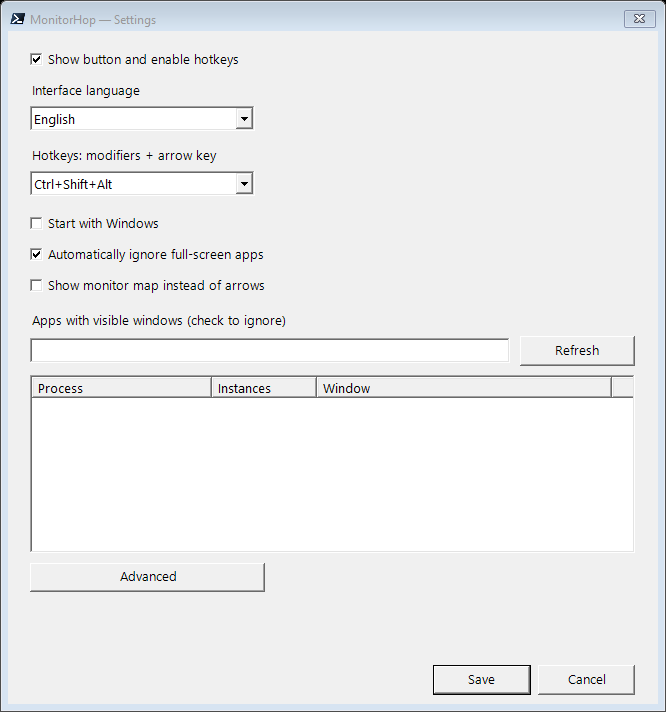
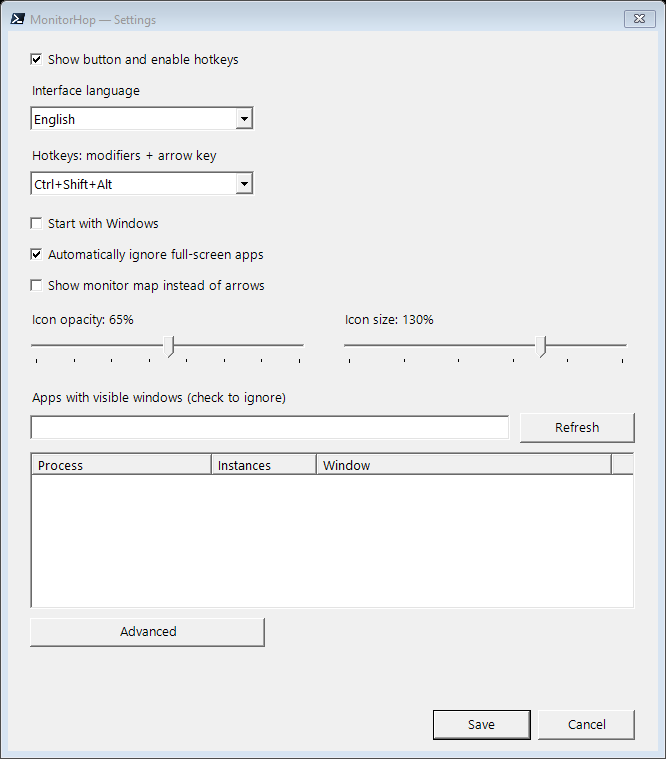
Add release update prompt and overlay appearance controls

diff --git a/MonitorHop/SettingsForm.cs b/MonitorHop/SettingsForm.cs
@@ -10,6 +10,10 @@ internal sealed class SettingsForm : Form
     private readonly ComboBox _modifiers;
     private readonly Label _languageLabel;
     private readonly Label _hotkeyLabel;
+    private readonly Label _opacityLabel;
+    private readonly Label _sizeLabel;
+    private readonly TrackBar _opacity;
+    private readonly TrackBar _size;
     private readonly Label _processLabel;
     private readonly TextBox _search;
     private readonly Button _refresh;
@@ -37,7 +41,7 @@ internal sealed class SettingsForm : Form
         FormBorderStyle = FormBorderStyle.FixedDialog;
         MaximizeBox = false;
         MinimizeBox = false;
-        ClientSize = new Size(650, 673);
+        ClientSize = new Size(650, 720);
         Font = new Font("Segoe UI", 10);
         Icon = Branding.AppIcon;
 
@@ -58,12 +62,20 @@ internal sealed class SettingsForm : Form
         _startup = new CheckBox { Left = 22, Top = 180, Width = 600, Height = 26, Checked = settings.StartWithWindows };
         _fullscreen = new CheckBox { Left = 22, Top = 211, Width = 600, Height = 26, Checked = settings.IgnoreFullscreen };
         _monitorMap = new CheckBox { Left = 22, Top = 242, Width = 600, Height = 26, Checked = settings.ShowMonitorMap };
-        _processLabel = new Label { Left = 22, Top = 280, Width = 600, Height = 23 };
-        _search = new TextBox { Left = 22, Top = 307, Width = 480, Height = 28 };
-        _refresh = new Button { Left = 512, Top = 305, Width = 115, Height = 30 };
+        _opacityLabel = new Label { Left = 22, Top = 279, Width = 280, Height = 23 };
+        _sizeLabel = new Label { Left = 335, Top = 279, Width = 290, Height = 23 };
+        _opacity = new TrackBar { Left = 15, Top = 303, Width = 290, Height = 45,
+            Minimum = 30, Maximum = 100, TickFrequency = 10,
+            Value = Math.Clamp(settings.IconOpacityPercent, 30, 100) };
+        _size = new TrackBar { Left = 328, Top = 303, Width = 300, Height = 45,
+            Minimum = 60, Maximum = 160, TickFrequency = 20,
+            Value = Math.Clamp(settings.IconSizePercent, 60, 160) };
+        _processLabel = new Label { Left = 22, Top = 357, Width = 600, Height = 23 };
+        _search = new TextBox { Left = 22, Top = 384, Width = 480, Height = 28 };
+        _refresh = new Button { Left = 512, Top = 382, Width = 115, Height = 30 };
         _processes = new ListView
         {
-            Left = 22, Top = 344, Width = 605, Height = 178,
+            Left = 22, Top = 421, Width = 605, Height = 157,
             View = View.Details, CheckBoxes = true, FullRowSelect = true,
             HideSelection = false, MultiSelect = false
         };
@@ -71,30 +83,33 @@ internal sealed class SettingsForm : Form
         _processes.Columns.Add("", 105);
         _processes.Columns.Add("", 295);
 
-        _advancedToggle = new Button { Left = 22, Top = 532, Width = 235, Height = 29 };
+        _advancedToggle = new Button { Left = 22, Top = 587, Width = 235, Height = 29 };
         _advanced = new TextBox
         {
-            Left = 22, Top = 568, Width = 476, Height = 59,
+            Left = 22, Top = 623, Width = 476, Height = 59,
             Multiline = true, ScrollBars = ScrollBars.Vertical,
             Visible = false
         };
-        _addNames = new Button { Left = 506, Top = 568, Width = 121, Height = 30, Visible = false };
+        _addNames = new Button { Left = 506, Top = 623, Width = 121, Height = 30, Visible = false };
         _hint = new Label
         {
-            Left = 22, Top = 631, Width = 390, Height = 18,
+            Left = 22, Top = 686, Width = 390, Height = 18,
             ForeColor = SystemColors.GrayText,
             Font = new Font("Segoe UI", 8.5f), Visible = false
         };
-        _save = new Button { Left = 425, Top = 634, Width = 98, Height = 30, DialogResult = DialogResult.OK };
-        _cancel = new Button { Left = 530, Top = 634, Width = 97, Height = 30, DialogResult = DialogResult.Cancel };
+        _save = new Button { Left = 425, Top = 679, Width = 98, Height = 30, DialogResult = DialogResult.OK };
+        _cancel = new Button { Left = 530, Top = 679, Width = 97, Height = 30, DialogResult = DialogResult.Cancel };
 
         Controls.AddRange([_enabled, _languageLabel, _language, _hotkeyLabel, _modifiers,
-            _startup, _fullscreen, _monitorMap, _processLabel, _search, _refresh, _processes,
+            _startup, _fullscreen, _monitorMap, _opacityLabel, _sizeLabel, _opacity, _size,
+            _processLabel, _search, _refresh, _processes,
             _advancedToggle, _advanced, _addNames, _hint, _save, _cancel]);
         AcceptButton = _save;
         CancelButton = _cancel;
 
         _language.SelectedIndexChanged += (_, _) => ApplyLanguage();
+        _opacity.ValueChanged += (_, _) => ApplyAppearanceLabels();
+        _size.ValueChanged += (_, _) => ApplyAppearanceLabels();
         _language.SelectedItem = _language.Items.Cast<LanguageOption>()
             .First(option => option.Code == Texts.NormalizeLanguage(settings.Language));
         _search.TextChanged += (_, _) => PopulateProcessList();
@@ -126,6 +141,8 @@ internal sealed class SettingsForm : Form
                 StartWithWindows = _startup.Checked,
                 IgnoreFullscreen = _fullscreen.Checked,
                 ShowMonitorMap = _monitorMap.Checked,
+                IconOpacityPercent = _opacity.Value,
+                IconSizePercent = _size.Value,
                 OverlayOffsetX = Result.OverlayOffsetX,
                 OverlayOffsetY = Result.OverlayOffsetY,
                 Language = ((LanguageOption)_language.SelectedItem!).Code,
@@ -150,6 +167,7 @@ internal sealed class SettingsForm : Form
         _startup.Text = T("StartupSetting");
         _fullscreen.Text = T("FullscreenSetting");
         _monitorMap.Text = T("MonitorMapSetting");
+        ApplyAppearanceLabels();
         _processLabel.Text = T("ProcessList");
         _search.PlaceholderText = T("SearchProcesses");
         _refresh.Text = T("Refresh");
@@ -161,6 +179,13 @@ internal sealed class SettingsForm : Form
         _hint.Text = T("IgnoredHint");
         _save.Text = T("Save");
         _cancel.Text = T("Cancel");
+    }
+
+    private void ApplyAppearanceLabels()
+    {
+        if (_language.SelectedItem is not LanguageOption language) return;
+        _opacityLabel.Text = $"{Texts.Get(language.Code, "IconOpacitySetting")}: {_opacity.Value}%";
+        _sizeLabel.Text = $"{Texts.Get(language.Code, "IconSizeSetting")}: {_size.Value}%";
     }
 
     private void RefreshProcesses()

diff --git a/MonitorHop/OverlayForm.cs b/MonitorHop/OverlayForm.cs
@@ -27,6 +27,8 @@ internal sealed class OverlayForm : Form
     private Screen? _source;
     private string _language = "ru";
     private bool _showMonitorMap;
+    private int _iconOpacityPercent = 78;
+    private int _iconSizePercent = 100;
     private string _monitorLayout = "";
 
     public event Action<Direction>? DirectionChosen;
@@ -92,6 +94,24 @@ internal sealed class OverlayForm : Form
         Position();
     }
 
+    public void SetAppearance(int opacityPercent, int sizePercent)
+    {
+        int opacity = Math.Clamp(opacityPercent, 30, 100);
+        int size = Math.Clamp(sizePercent, 60, 160);
+        if (_iconOpacityPercent == opacity && _iconSizePercent == size) return;
+        _iconOpacityPercent = opacity;
+        _iconSizePercent = size;
+        if (_expanded) return;
+        Opacity = _iconOpacityPercent / 100.0;
+        ClientSize = ClosedSize;
+        Position();
+        Invalidate();
+    }
+
+    private Size ClosedSize => new(
+        (int)Math.Round(ClosedWidth * _iconSizePercent / 100.0),
+        (int)Math.Round(ClosedHeight * _iconSizePercent / 100.0));
+
     public void Attach(Rectangle window, Screen source, IntPtr hwnd)
     {
         string layout = string.Join("|", Screen.AllScreens.Select(screen =>
@@ -116,8 +136,8 @@ internal sealed class OverlayForm : Form
         if (Visible) Hide();
         _expanded = false;
         _hovered = -1;
-        Opacity = 0.78;
-        ClientSize = new Size(ClosedWidth, ClosedHeight);
+        Opacity = _iconOpacityPercent / 100.0;
+        ClientSize = ClosedSize;
         _anchor = Rectangle.Empty;
         _window = IntPtr.Zero;
         _source = null;
@@ -234,7 +254,11 @@ internal sealed class OverlayForm : Form
 
         if (!_expanded)
         {
-            graphics.DrawImage(Branding.Image, new Rectangle(7, 3, 44, 42));
+            graphics.DrawImage(Branding.Image, new Rectangle(
+                (int)Math.Round(7 * _iconSizePercent / 100.0),
+                (int)Math.Round(3 * _iconSizePercent / 100.0),
+                (int)Math.Round(44 * _iconSizePercent / 100.0),
+                (int)Math.Round(42 * _iconSizePercent / 100.0)));
             return;
         }
 
@@ -385,8 +409,8 @@ internal sealed class OverlayForm : Form
         if (!_expanded) return;
         _expanded = false;
         _hovered = -1;
-        Opacity = 0.78;
-        ClientSize = new Size(ClosedWidth, ClosedHeight);
+        Opacity = _iconOpacityPercent / 100.0;
+        ClientSize = ClosedSize;
         Position();
         Invalidate();
     }
@@ -398,7 +422,7 @@ internal sealed class OverlayForm : Form
         uint dpi = Native.GetDpiForWindow(_window);
         double scale = dpi > 0 ? dpi / 96.0 : 1;
         int captionSpace = (int)Math.Round(3 * 46 * scale + 12 * scale);
-        int collapsedRight = Math.Max(_anchor.Left + ClosedWidth + 8, _anchor.Right - captionSpace);
+        int collapsedRight = Math.Max(_anchor.Left + ClosedSize.Width + 8, _anchor.Right - captionSpace);
         int x = collapsedRight - Width + (int)Math.Round(_offset.X * scale);
         x = Math.Clamp(x, work.Left, Math.Max(work.Left, work.Right - Width));
         int y = Math.Clamp(_anchor.Top + 3 + (int)Math.Round(_offset.Y * scale),

diff --git a/MonitorHop/TrayContext.cs b/MonitorHop/TrayContext.cs
@@ -18,6 +18,8 @@ internal sealed class TrayContext : ApplicationContext
     private string _cachedProcessName = "";
     private SettingsForm? _settingsDialog;
     private AppSettings _settings;
+    private bool _updateCheckStarted;
+    private bool _closing;
 
     public TrayContext()
     {
@@ -68,8 +70,11 @@ internal sealed class TrayContext : ApplicationContext
         _timer = new System.Windows.Forms.Timer { Interval = 500 };
         _timer.Tick += (_, _) =>
         {
-            if (_exitRequest.WaitOne(0)) ExitThread();
-            else RefreshOverlay();
+            if (_exitRequest.WaitOne(0)) { ExitThread(); return; }
+            RefreshOverlay();
+            if (_updateCheckStarted) return;
+            _updateCheckStarted = true;
+            _ = CheckForUpdatesAsync();
         };
         _timer.Start();
         ApplySettings();
@@ -239,6 +244,7 @@ internal sealed class TrayContext : ApplicationContext
         _exitItem.Text = T("Exit");
         _overlay.SetLanguage(_settings.Language);
         _overlay.SetDisplayMode(_settings.ShowMonitorMap);
+        _overlay.SetAppearance(_settings.IconOpacityPercent, _settings.IconSizePercent);
         _overlay.SetPositionOffset(_settings.OverlayOffsetX, _settings.OverlayOffsetY);
         _hotkeyWindow.Configure(_settings.Enabled ? _settings.HotkeyModifiers : null);
         if (_settings.Enabled && !_hotkeyWindow.Registered)
@@ -249,6 +255,7 @@ internal sealed class TrayContext : ApplicationContext
 
     protected override void ExitThreadCore()
     {
+        _closing = true;
         _timer.Stop();
         _timer.Dispose();
         _hotkeyWindow.Dispose();
@@ -257,6 +264,31 @@ internal sealed class TrayContext : ApplicationContext
         _tray.Visible = false;
         _tray.Dispose();
         base.ExitThreadCore();
+    }
+
+    private async Task CheckForUpdatesAsync()
+    {
+        ReleaseInfo? release;
+        try { release = await UpdateChecker.GetNewerReleaseAsync(CancellationToken.None); }
+        catch (HttpRequestException) { return; }
+        catch (TaskCanceledException) { return; }
+        catch (IOException) { return; }
+        catch (System.Text.Json.JsonException) { return; }
+        if (_closing || release is null) return;
+
+        string message = string.Format(T("UpdatePrompt"), UpdateChecker.InstalledVersion, release.Version);
+        if (MessageBox.Show(message, T("UpdateTitle"), MessageBoxButtons.YesNo,
+                MessageBoxIcon.Information) != DialogResult.Yes)
+            return;
+        try
+        {
+            Process.Start(new ProcessStartInfo(release.Page.AbsoluteUri) { UseShellExecute = true });
+        }
+        catch (System.ComponentModel.Win32Exception)
+        {
+            MessageBox.Show(T("UpdateOpenFailed"), T("UpdateTitle"),
+                MessageBoxButtons.OK, MessageBoxIcon.Warning);
+        }
     }
 
     private sealed class HotkeyWindow : NativeWindow, IDisposable

diff --git a/MonitorHop/UpdateChecker.cs b/MonitorHop/UpdateChecker.cs
@@ -1,0 +1,56 @@
+using System.Net.Http.Headers;
+using System.Text.Json;
+
+namespace MonitorHop;
+
+internal static class UpdateChecker
+{
+    private const string LatestReleaseApi =
+        "https://api.github.com/repos/danilyu4ka/MonitorHop/releases/latest";
+    private const string ReleaseBase =
+        "https://github.com/danilyu4ka/MonitorHop/releases/tag/";
+    private static readonly HttpClient Client = new() { Timeout = TimeSpan.FromSeconds(8) };
+
+    public static Version InstalledVersion => Normalize(
+        typeof(UpdateChecker).Assembly.GetName().Version ?? new Version(0, 0));
+
+    public static async Task<ReleaseInfo?> GetNewerReleaseAsync(CancellationToken cancellationToken)
+    {
+        using var request = new HttpRequestMessage(HttpMethod.Get, LatestReleaseApi);
+        request.Headers.UserAgent.ParseAdd($"MonitorHop/{InstalledVersion}");
+        request.Headers.Accept.Add(new MediaTypeWithQualityHeaderValue("application/vnd.github+json"));
+        using var response = await Client.SendAsync(request,
+            HttpCompletionOption.ResponseHeadersRead, cancellationToken);
+        if (!response.IsSuccessStatusCode) return null;
+
+        await using var stream = await response.Content.ReadAsStreamAsync(cancellationToken);
+        using var document = await JsonDocument.ParseAsync(stream, cancellationToken: cancellationToken);
+        if (document.RootElement.ValueKind != JsonValueKind.Object ||
+            !document.RootElement.TryGetProperty("tag_name", out var tagElement) ||
+            tagElement.ValueKind != JsonValueKind.String)
+            return null;
+
+        string? tag = tagElement.GetString();
+        if (!TryParseTag(tag, out var version) || version <= InstalledVersion) return null;
+        return new ReleaseInfo(version, new Uri(ReleaseBase + tag));
+    }
+
+    internal static bool TryParseTag(string? tag, out Version version)
+    {
+        version = new Version(0, 0, 0, 0);
+        if (string.IsNullOrEmpty(tag)) return false;
+        string numeric = tag.StartsWith('v') || tag.StartsWith('V') ? tag[1..] : tag;
+        string[] parts = numeric.Split('.');
+        if (parts.Length is < 2 or > 4 ||
+            parts.Any(part => part.Length is < 1 or > 9 || !part.All(char.IsAsciiDigit)) ||
+            !Version.TryParse(numeric, out var parsed))
+            return false;
+        version = Normalize(parsed);
+        return true;
+    }
+
+    private static Version Normalize(Version version) =>
+        new(version.Major, version.Minor, Math.Max(0, version.Build), Math.Max(0, version.Revision));
+}
+
+internal sealed record ReleaseInfo(Version Version, Uri Page);

diff --git a/MonitorHop/Texts.cs b/MonitorHop/Texts.cs
@@ -19,6 +19,11 @@ internal static class Texts
         ["StartupSetting"] = ("Запускать вместе с Windows", "Start with Windows", "Käivita koos Windowsiga"),
         ["FullscreenSetting"] = ("Автоматически игнорировать полноэкранные приложения", "Automatically ignore full-screen apps", "Eira täisekraanirakendusi automaatselt"),
         ["MonitorMapSetting"] = ("Показывать карту мониторов вместо стрелок", "Show monitor map instead of arrows", "Kuva noolte asemel kuvarite kaart"),
+        ["IconOpacitySetting"] = ("Прозрачность значка", "Icon opacity", "Ikooni läbipaistmatus"),
+        ["IconSizeSetting"] = ("Размер значка", "Icon size", "Ikooni suurus"),
+        ["UpdateTitle"] = ("Доступно обновление MonitorHop", "MonitorHop update available", "MonitorHopi uuendus on saadaval"),
+        ["UpdatePrompt"] = ("Установлена версия {0}. Доступна версия {1}. Открыть страницу релиза на GitHub?", "Installed version: {0}. Version {1} is available. Open its GitHub release page?", "Paigaldatud versioon: {0}. Saadaval on versioon {1}. Kas avada GitHubi väljalaske leht?"),
+        ["UpdateOpenFailed"] = ("Не удалось открыть страницу релиза.", "Could not open the release page.", "Väljalaske lehte ei õnnestunud avada."),
         ["IgnoredSetting"] = ("Игнорировать приложения (имя процесса, по одному на строку):", "Ignore apps (process name, one per line):", "Eira rakendusi (protsessi nimi, üks rea kohta):"),
         ["IgnoredHint"] = ("Имена процессов по одному на строку, например game.exe", "One process name per line, for example game.exe", "Üks protsessi nimi rea kohta, näiteks game.exe"),
         ["ProcessList"] = ("Приложения с видимыми окнами (отметьте для игнорирования)", "Apps with visible windows (check to ignore)", "Nähtavate akendega rakendused (märgi eiramiseks)"),

diff --git a/MonitorHop/AppSettings.cs b/MonitorHop/AppSettings.cs
@@ -13,6 +13,8 @@ internal sealed class AppSettings
     public bool StartWithWindows { get; set; }
     public int OverlayOffsetX { get; set; }
     public int OverlayOffsetY { get; set; }
+    public int IconOpacityPercent { get; set; } = 78;
+    public int IconSizePercent { get; set; } = 100;
     public string Language { get; set; } = Texts.SystemLanguage;
     public string HotkeyModifiers { get; set; } = "Ctrl+Shift+Alt";
     public List<string> IgnoredProcesses { get; set; } = [];
@@ -87,6 +89,8 @@ internal sealed class AppSettings
         settings.StartWithWindows = StartupManager.IsEnabled();
         settings.OverlayOffsetX = Math.Clamp(settings.OverlayOffsetX, -300, 300);
         settings.OverlayOffsetY = Math.Clamp(settings.OverlayOffsetY, -150, 150);
+        settings.IconOpacityPercent = Math.Clamp(settings.IconOpacityPercent, 30, 100);
+        settings.IconSizePercent = Math.Clamp(settings.IconSizePercent, 60, 160);
         return settings;
     }
 

diff --git a/docs/CORPORATE_DEPLOYMENT_EN.md b/docs/CORPORATE_DEPLOYMENT_EN.md
@@ -10,7 +10,9 @@ The selected installer language is written to the user settings file on a fresh 
 
 ## What the running app does
 
-MonitorHop runs as a normal interactive user process. It checks the foreground window twice per second, reads its window bounds and process name, and displays a small overlay when at least two monitors are active. It uses standard Windows window APIs to move a selected window. Global hotkeys use `RegisterHotKey`; they can be turned off in Settings. The app does not install a service, driver, browser extension, global event hook, or code in another process. It has no network, update, telemetry, or screen capture feature.
+MonitorHop runs as a normal interactive user process. It checks the foreground window twice per second, reads its window bounds and process name, and displays a small overlay when at least two monitors are active. It uses standard Windows window APIs to move a selected window. Global hotkeys use `RegisterHotKey`; they can be turned off in Settings. The app does not install a service, driver, browser extension, global event hook, or code in another process. It has no telemetry or screen capture feature.
+
+Once per launch, the app makes one HTTPS request to the public GitHub REST API for the latest published release of `danilyu4ka/MonitorHop`. If the release is newer, it asks the user before opening the fixed GitHub release page in the browser. It does not download or execute update binaries. Network errors and private-repository responses are ignored. The API request exposes the usual connection metadata to GitHub, including the user's IP address and the `MonitorHop/<version>` user agent. Administrators can block this endpoint if release checks are not wanted; the overlay continues to work offline.
 
 Settings are stored in `%LOCALAPPDATA%\MonitorHop\settings.json`. On first launch after updating from an older version, MonitorHop moves an existing settings file from the former folder to this location. Uninstall removes the installed app, shortcuts, uninstall entry, and startup value. It keeps the settings file for a future reinstall.
 

diff --git a/README.md b/README.md
@@ -19,7 +19,9 @@ The installer works for the current user without administrator rights and instal
 
 ## Controls and settings
 
-The default shortcut is **Ctrl+Shift+Alt + arrow key**. Settings lets you change the modifiers, select the interface language, start with Windows, ignore full-screen apps, or show the monitor map instead of arrows. Full-screen apps are ignored by default.
+The default shortcut is **Ctrl+Shift+Alt + arrow key**. Settings lets you change the modifiers, select the interface language, start with Windows, ignore full-screen apps, show the monitor map instead of arrows, and adjust the collapsed button's opacity (30–100%) and size (60–160%). Full-screen apps are ignored by default.
+
+Once per launch, MonitorHop checks the latest published [GitHub release](https://github.com/danilyu4ka/MonitorHop/releases). If its version is newer, a prompt offers to open that release page in your browser. You decide whether to download and run the installer; the app does not download or execute updates itself. Exit MonitorHop from the tray before running an updated installer. The check requires the repository to be public and an internet connection; a failed check is silent.
 
 Use **Ignore this app** in the overlay to ignore the current application. Settings lists applications with visible windows on the connected displays; tick the ones to ignore. **Advanced** accepts process names manually, including apps that are not currently open. An ignored process name applies to all its instances.
 

diff --git a/docs/INSTALL_GUIDE_EN.md b/docs/INSTALL_GUIDE_EN.md
@@ -32,11 +32,13 @@ For a nonstandard monitor layout, open Settings and select **Show monitor map in
 
 ## 4. Adjust settings and ignored apps
 
-Settings lets you change the language, hotkey modifiers, Windows startup, full-screen app handling, and the monitor map. Full-screen apps are ignored by default.
+Settings lets you change the language, hotkey modifiers, Windows startup, full-screen app handling, and the monitor map. Two sliders adjust the collapsed button's opacity and size. Full-screen apps are ignored by default.
 
 ![MonitorHop settings in English](images/settings-en.png)
 
 To ignore an application, use **Ignore this app** in the overlay menu, or tick it in the Settings list. This list shows only apps with visible windows on your screens. The **Advanced** section accepts process names manually, including apps that are not currently running.
+
+When MonitorHop starts, it checks the latest public GitHub release once. If that version is newer than yours, choose **Yes** to open its release page. Download the installer there, exit MonitorHop from the tray, and run the installer. Your settings stay in place. A failed or offline check does not interrupt startup.
 
 ## 5. Uninstall
 
